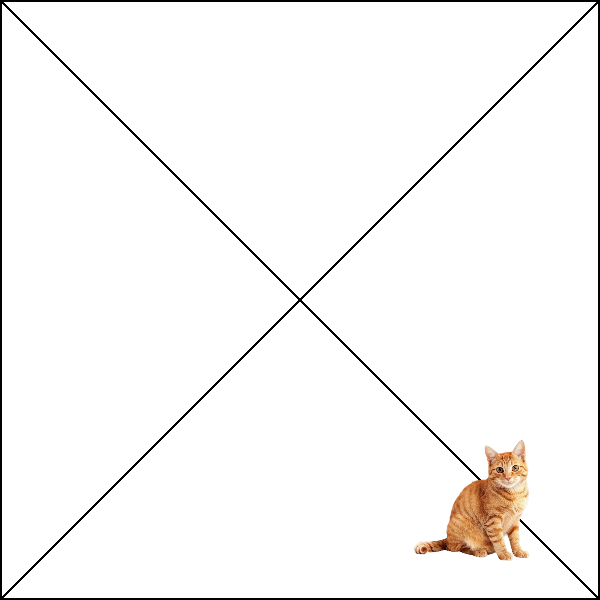
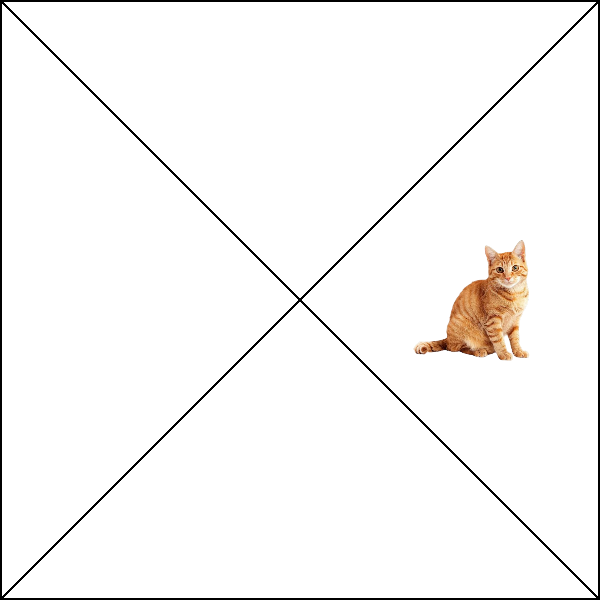
подправлены координаты

Changed region(s): [[0.69, 0.39, 0.9, 0.6], [0.69, 0.72, 0.9, 0.93]]

diff --git a/generate_level.py b/generate_level.py
@@ -55,7 +55,8 @@ def generate(img_width, img_height, image_direct, format, field_direct, final_di
     #    1
     #  0   2
     #    3
-    coords_for_image = [(0, img_height), (img_width, 0), (2 * img_width, 2 * img_height), (img_width, img_height * 2)]
+    coords_for_image = [(0, img_height), (img_width, 0), (2 * img_width, img_height), (img_width, img_height * 2)]
+    # place_image('field/1.png', 'images_generate/2.png', 'result.png', coords_for_image[3])
     field = [[("", 1) for i in range(4)] for x in range(4)]
     indexes_images = [(0, 2), (1, 3), (0, 2), (1, 3)]
     indexes_text = [(1, 3), (0, 2), (1, 3), (0, 2)]
@@ -66,4 +67,4 @@ def generate(img_width, img_height, image_direct, format, field_direct, final_di
             counter += 1
             place_image(f'{field_direct}/{i + 1}.png', field[i][ind_img][0], f'{final_direct}/{i + 1}.png', coords_for_image[ind_img])
 
-# generate(IMAGE_WIDTH, IMAGE_HEIGHT, DIRECTORY_IMAGES, FORMAT_IMAGE, DIRECTORY_FIELD, DIRECTORY_FINAL_FIELD)
+generate(IMAGE_WIDTH, IMAGE_HEIGHT, DIRECTORY_IMAGES, FORMAT_IMAGE, DIRECTORY_FIELD, DIRECTORY_FINAL_FIELD)
